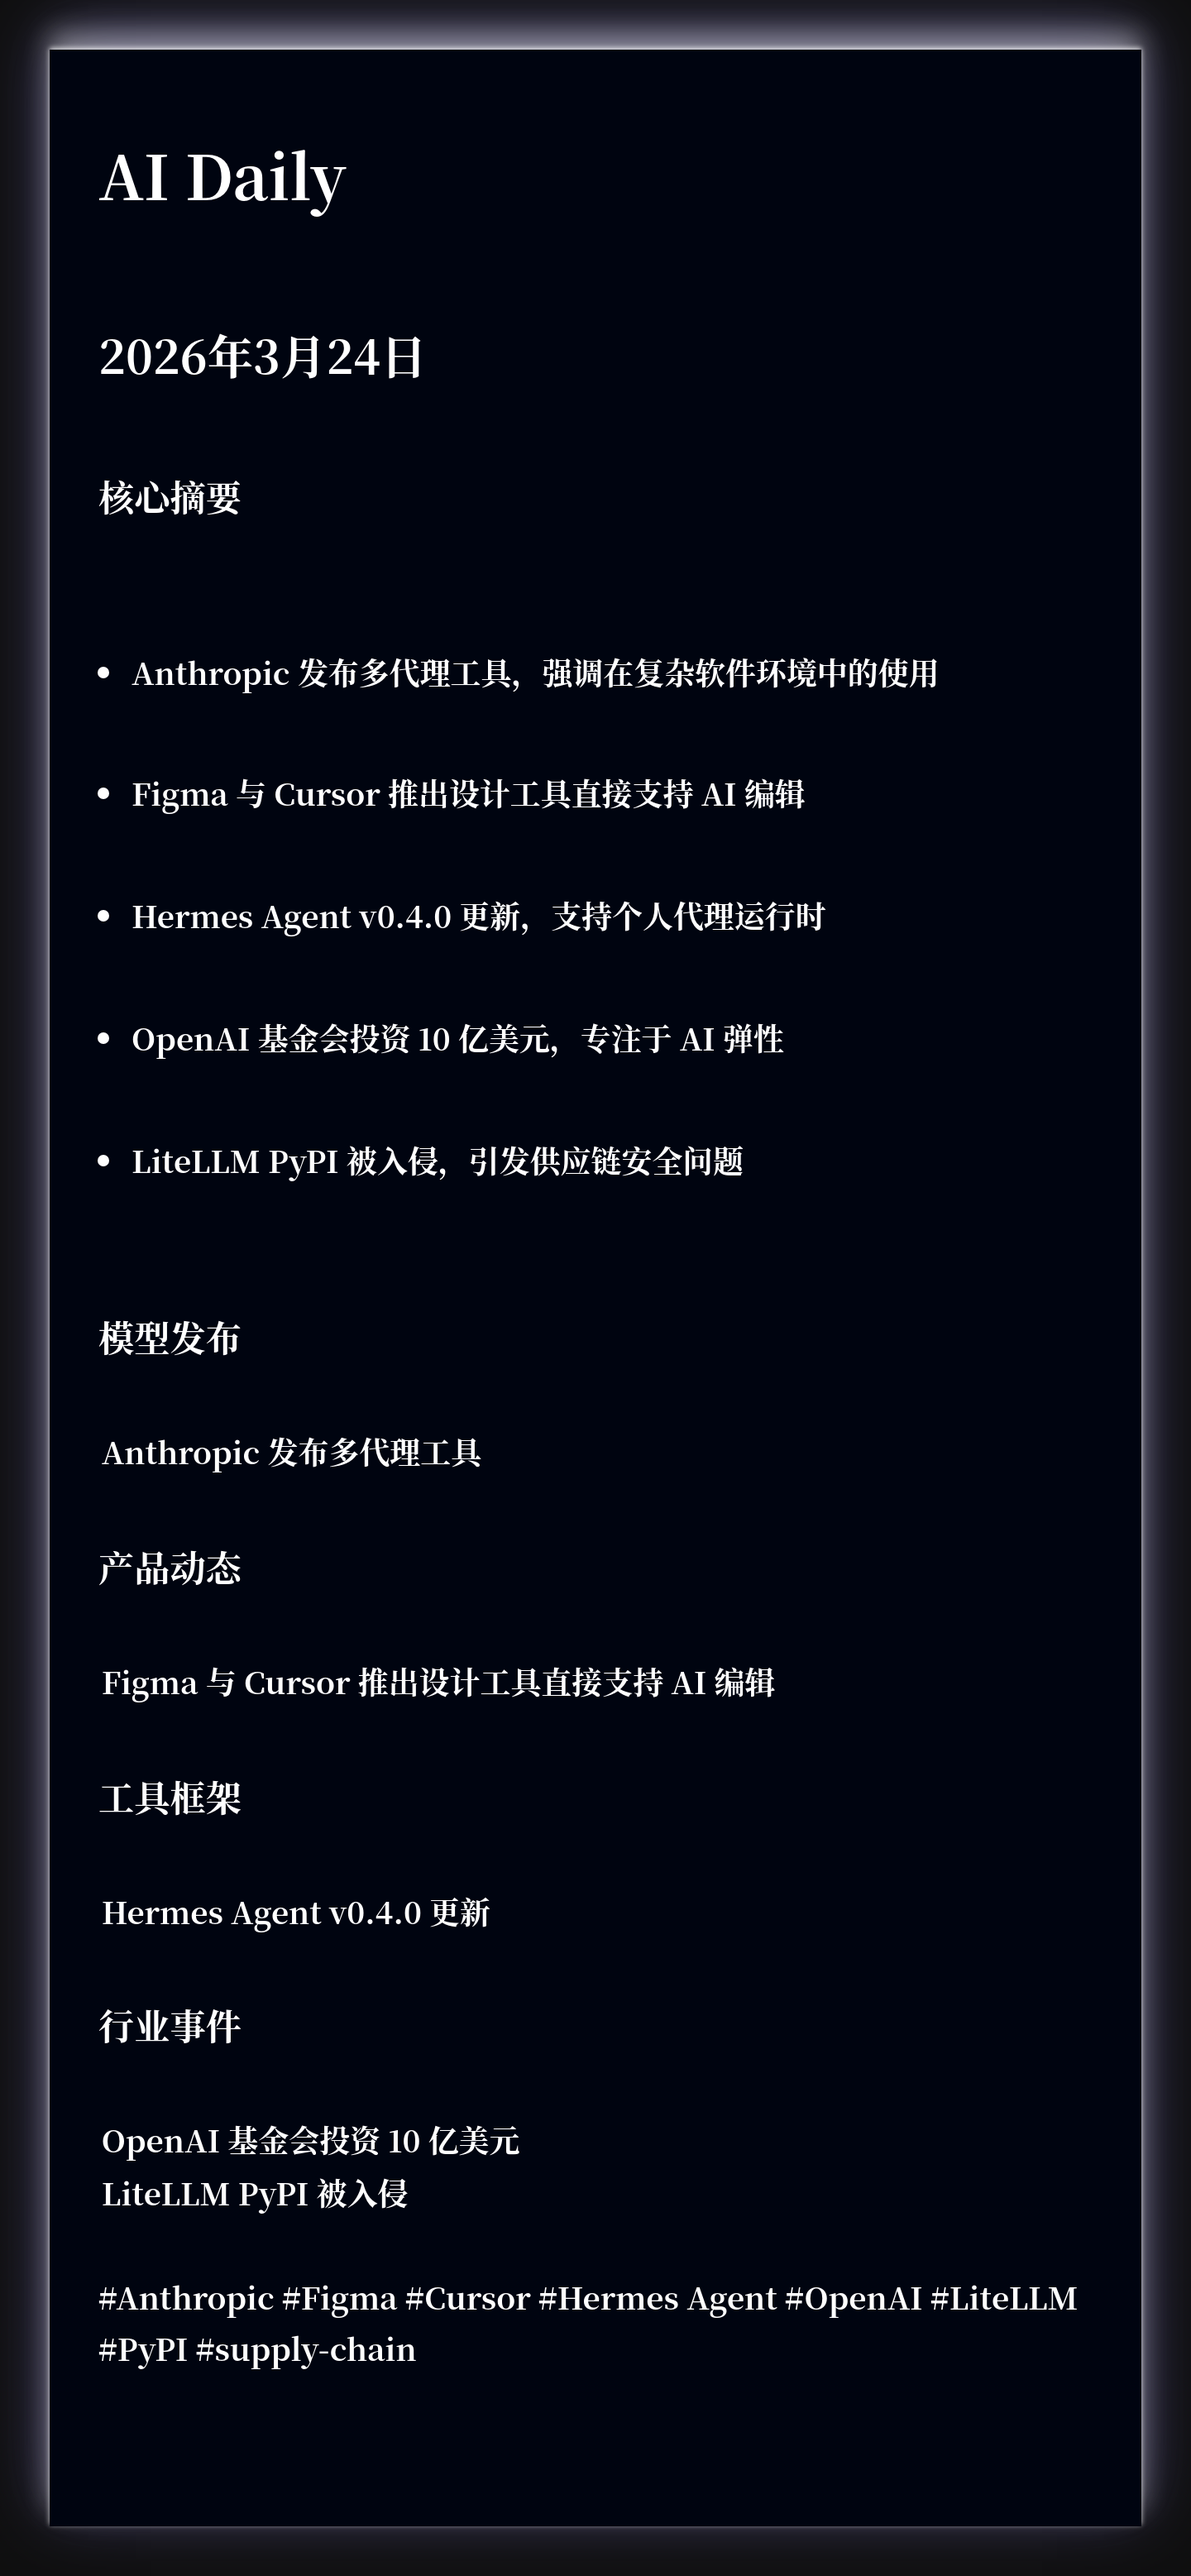
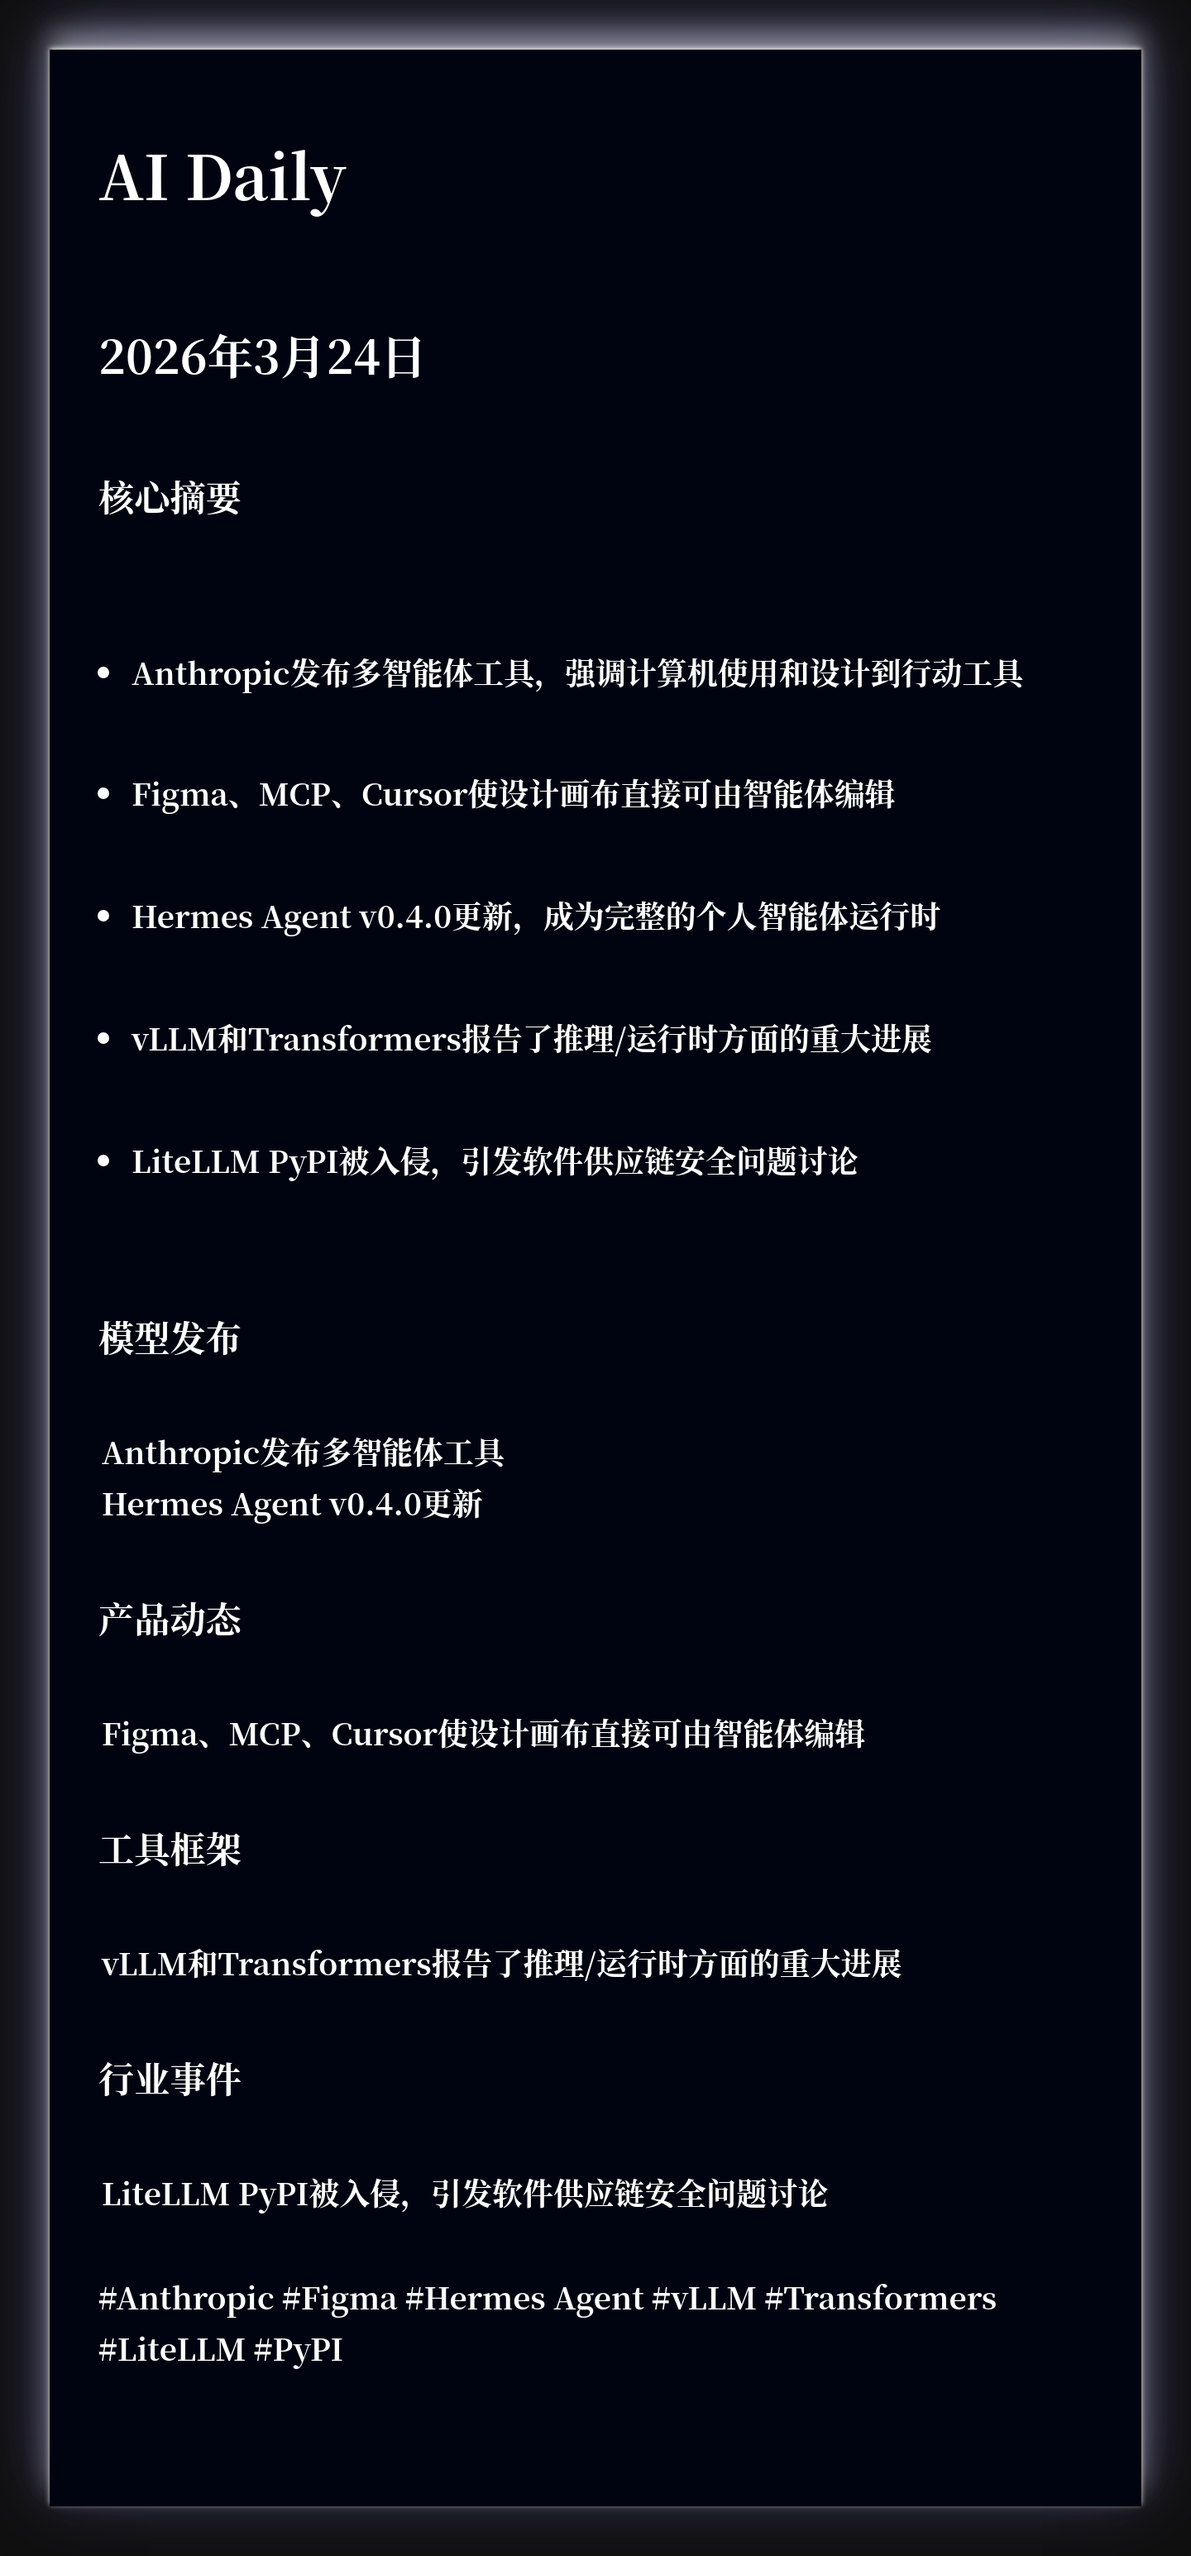
🤖 Auto update AI Daily - {{ date }} ddcd8d71484ae12127af790c945bac8f0ef651e9

diff --git a/2026-03-24.html b/2026-03-24.html
@@ -5,7 +5,7 @@
     <meta name="viewport" content="width=device-width, initial-scale=1.0">
     <title>AI Daily · 2026年3月24日 星期二</title>
     <meta name="description" content="每日 AI 前沿资讯，智能分类，快速掌握核心动态">
-    <meta name="keywords" content="Anthropic, Figma, Cursor, Hermes Agent, OpenAI, LiteLLM, PyPI, supply-chain, security, AI, 人工智能, 机器学习, 深度学习, 资讯, 日报">
+    <meta name="keywords" content="Anthropic, Figma, Hermes Agent, vLLM, Transformers, LiteLLM, PyPI, AI, 人工智能, 机器学习, 深度学习, 资讯, 日报">
     <link rel="stylesheet" href="css/styles.css">
 </head>
 <body data-theme="blue">
@@ -24,11 +24,11 @@
             <section class="summary-card">
                 <h2 class="section-title">📌 今日核心摘要</h2>
                 <ul class="summary-list">
-                <li class="summary-item">Anthropic 发布多代理工具，强调在复杂软件环境中的使用</li>
-                <li class="summary-item">Figma 与 Cursor 推出设计工具直接支持 AI 编辑</li>
-                <li class="summary-item">Hermes Agent v0.4.0 更新，支持个人代理运行时</li>
-                <li class="summary-item">OpenAI 基金会投资 10 亿美元，专注于 AI 弹性</li>
-                <li class="summary-item">LiteLLM PyPI 被入侵，引发供应链安全问题</li>
+                <li class="summary-item">Anthropic发布多智能体工具，强调计算机使用和设计到行动工具</li>
+                <li class="summary-item">Figma、MCP、Cursor使设计画布直接可由智能体编辑</li>
+                <li class="summary-item">Hermes Agent v0.4.0更新，成为完整的个人智能体运行时</li>
+                <li class="summary-item">vLLM和Transformers报告了推理/运行时方面的重大进展</li>
+                <li class="summary-item">LiteLLM PyPI被入侵，引发软件供应链安全问题讨论</li>
                 </ul>
             </section>
 
@@ -37,17 +37,26 @@
                 <div class="category-header">
                     <span class="category-icon">🤖</span>
                     <h2 class="category-title">模型发布</h2>
-                    <span class="category-count">1</span>
+                    <span class="category-count">2</span>
                 </div>
                 <div class="news-grid">
 
                 <article class="news-card">
                     <div class="news-card-header">
-                        <h3 class="news-title">Anthropic 发布多代理工具</h3>
+                        <h3 class="news-title">Anthropic发布多智能体工具</h3>
                         <a href="https://news.smol.ai/issues/26-03-24-not-much/" class="item-link" target="_blank" rel="noopener">详情</a>
                     </div>
-                    <p class="news-summary">Anthropic 发布多代理工具，强调在复杂软件环境中的使用</p>
-                    <div class="item-tags"><span class="tag">#Anthropic</span> <span class="tag">#agent</span> <span class="tag">#tooling</span></div>
+                    <p class="news-summary">Anthropic发布多智能体工具，强调计算机使用和设计到行动工具</p>
+                    <div class="item-tags"><span class="tag">#Anthropic</span> <span class="tag">#智能体</span> <span class="tag">#工具</span></div>
+                </article>
+
+                <article class="news-card">
+                    <div class="news-card-header">
+                        <h3 class="news-title">Hermes Agent v0.4.0更新</h3>
+                        <a href="https://news.smol.ai/issues/26-03-24-not-much/" class="item-link" target="_blank" rel="noopener">详情</a>
+                    </div>
+                    <p class="news-summary">Hermes Agent v0.4.0更新，成为完整的个人智能体运行时</p>
+                    <div class="item-tags"><span class="tag">#Hermes Agent</span> <span class="tag">#智能体</span> <span class="tag">#更新</span></div>
                 </article>
 
                 </div>
@@ -63,11 +72,11 @@
 
                 <article class="news-card">
                     <div class="news-card-header">
-                        <h3 class="news-title">Figma 与 Cursor 推出设计工具直接支持 AI 编辑</h3>
+                        <h3 class="news-title">Figma、MCP、Cursor使设计画布直接可由智能体编辑</h3>
                         <a href="https://news.smol.ai/issues/26-03-24-not-much/" class="item-link" target="_blank" rel="noopener">详情</a>
                     </div>
-                    <p class="news-summary">Figma 与 Cursor 推出设计工具直接支持 AI 编辑</p>
-                    <div class="item-tags"><span class="tag">#Figma</span> <span class="tag">#Cursor</span> <span class="tag">#AI editing</span></div>
+                    <p class="news-summary">Figma、MCP、Cursor使设计画布直接可由智能体编辑</p>
+                    <div class="item-tags"><span class="tag">#Figma</span> <span class="tag">#MCP</span> <span class="tag">#Cursor</span> <span class="tag">#智能体</span></div>
                 </article>
 
                 </div>
@@ -83,11 +92,11 @@
 
                 <article class="news-card">
                     <div class="news-card-header">
-                        <h3 class="news-title">Hermes Agent v0.4.0 更新</h3>
+                        <h3 class="news-title">vLLM和Transformers报告了推理/运行时方面的重大进展</h3>
                         <a href="https://news.smol.ai/issues/26-03-24-not-much/" class="item-link" target="_blank" rel="noopener">详情</a>
                     </div>
-                    <p class="news-summary">Hermes Agent v0.4.0 更新，支持个人代理运行时</p>
-                    <div class="item-tags"><span class="tag">#Hermes Agent</span> <span class="tag">#agent runtime</span></div>
+                    <p class="news-summary">vLLM和Transformers报告了推理/运行时方面的重大进展</p>
+                    <div class="item-tags"><span class="tag">#vLLM</span> <span class="tag">#Transformers</span> <span class="tag">#推理</span> <span class="tag">#运行时</span></div>
                 </article>
 
                 </div>
@@ -97,26 +106,17 @@
                 <div class="category-header">
                     <span class="category-icon">🏆</span>
                     <h2 class="category-title">行业事件</h2>
-                    <span class="category-count">2</span>
+                    <span class="category-count">1</span>
                 </div>
                 <div class="news-grid">
 
                 <article class="news-card">
                     <div class="news-card-header">
-                        <h3 class="news-title">OpenAI 基金会投资 10 亿美元</h3>
+                        <h3 class="news-title">LiteLLM PyPI被入侵，引发软件供应链安全问题讨论</h3>
                         <a href="https://news.smol.ai/issues/26-03-24-not-much/" class="item-link" target="_blank" rel="noopener">详情</a>
                     </div>
-                    <p class="news-summary">OpenAI 基金会投资 10 亿美元，专注于 AI 弹性</p>
-                    <div class="item-tags"><span class="tag">#OpenAI</span> <span class="tag">#Foundation</span> <span class="tag">#investment</span></div>
-                </article>
-
-                <article class="news-card">
-                    <div class="news-card-header">
-                        <h3 class="news-title">LiteLLM PyPI 被入侵</h3>
-                        <a href="https://news.smol.ai/issues/26-03-24-not-much/" class="item-link" target="_blank" rel="noopener">详情</a>
-                    </div>
-                    <p class="news-summary">LiteLLM PyPI 被入侵，引发供应链安全问题</p>
-                    <div class="item-tags"><span class="tag">#LiteLLM</span> <span class="tag">#PyPI</span> <span class="tag">#security breach</span></div>
+                    <p class="news-summary">LiteLLM PyPI被入侵，引发软件供应链安全问题讨论</p>
+                    <div class="item-tags"><span class="tag">#LiteLLM</span> <span class="tag">#PyPI</span> <span class="tag">#安全</span> <span class="tag">#供应链</span></div>
                 </article>
 
                 </div>
@@ -124,7 +124,7 @@
 
 
         <footer class="keywords-footer">
-            <p>#关键词: Anthropic | Figma | Cursor | Hermes Agent | OpenAI | LiteLLM | PyPI | supply-chain | security</p>
+            <p>#关键词: Anthropic | Figma | Hermes Agent | vLLM | Transformers | LiteLLM | PyPI</p>
         </footer>
 
         </main>

diff --git a/xiaohongshu/xhs-2026-03-24.html b/xiaohongshu/xhs-2026-03-24.html
@@ -318,18 +318,18 @@
                 <div class="title-section">
                     <div class="main-title">Anthropic · 发布</div>
                     <div class="divider"></div>
-                    <div class="subtitle">Anthropic 发布多代理工具，强调在复杂软件...</div>
+                    <div class="subtitle">Anthropic发布多智能体工具，强调计算机使用...</div>
 
                     <!-- 亮点 -->
                     <div class="highlights">
-                        <span class="highlight-item">Anthro</span><span class="highlight-item">Figma </span><span class="highlight-item">Hermes</span>
+                        <span class="highlight-item">Anthro</span><span class="highlight-item">Figma、</span><span class="highlight-item">Hermes</span>
                     </div>
                 </div>
 
                 <!-- 底部区域 -->
                 <div class="bottom-section">
                     <div class="keywords">
-                        <span class="keyword-tag">#Anthropic</span><span class="keyword-tag">#Figma</span><span class="keyword-tag">#Cursor</span><span class="keyword-tag">#Hermes Agent</span><span class="keyword-tag">#OpenAI</span>
+                        <span class="keyword-tag">#Anthropic</span><span class="keyword-tag">#Figma</span><span class="keyword-tag">#Hermes Agent</span><span class="keyword-tag">#vLLM</span><span class="keyword-tag">#Transformers</span>
                     </div>
                     <div class="account-info">
                         <div class="account-name">极客杰尼</div>

diff --git a/index.html b/index.html
@@ -29,7 +29,7 @@
                         <span class="entry-date">2026年3月24日 星期二</span>
                         <span class="entry-arrow">→</span>
                     </div>
-                    <p class="entry-summary">Anthropic 发布多代理工具，强调在复杂软件环境中的使用</p>
+                    <p class="entry-summary">Anthropic发布多智能体工具，强调计算机使用和设计到行动工具</p>
                 </a>
             </article>
 
